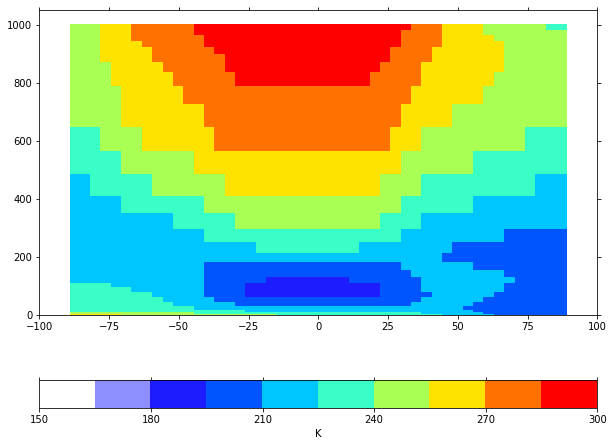
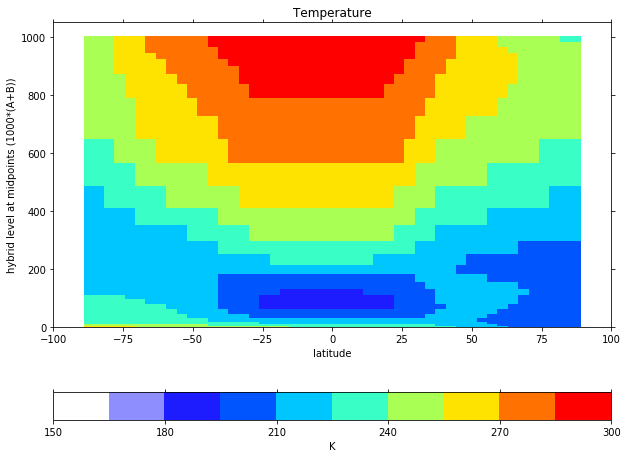
added xlabel and ylabel for vertical cross section plots

diff --git a/_episodes/05-psyplot-simple_case.md b/_episodes/05-psyplot-simple_case.md
@@ -22,20 +22,19 @@ keypoints:
 
 
 *   [Introduction to Jupyterhub and JupyterLab](#introduction-to-jupyterhub-and-jupyterlab)
-		* [Login to the JupyterHub](#login-to-the-jupyterhub)
-		* [Start and stop your server](#start-and-stop-your-server)
-		* [JupyterLab](#jupyterlab)
+	* [Login to the JupyterHub](#login-to-the-jupyterhub)
+	* [Start and stop your server](#start-and-stop-your-server)
+	* [JupyterLab](#jupyterlab)
 *   [Copy your output files from Abel to the virtual machine](#copy-your-output-files-from-abel-to-the-virtual-machine)
 *   [Map visualization with psyplot](#map-visualization-with-psyplot)
 *   [Customize your maps](#customize-your-plots)
-		* [Set figure size](#set-figure-size)
-		* [Plot 4D-fields such as Temperature](#plot-4d-fields-such-as-temperature)
-		* [Change map projection](#change-map-projection)
+	* [Set figure size](#set-figure-size)
+	* [Plot 4D-fields such as Temperature](#plot-4d-fields-such-as-temperature)
+	* [Change map projection](#change-map-projection)
 *   [Georeferenced Latitude-Vertical plot](#georeferenced-latitude-vertical-plot)	
-		* [2D plot for one longitude point](#2d-plot-for-one-longitude-point)
-		* [2D plot over averaged longitudes](#2d-plot-over-averaged-longitudes)
+	* [2D plot for one longitude point](#2d-plot-for-one-longitude-point)
+	* [2D plot over averaged longitudes](#2d-plot-over-averaged-longitudes)
 *   [CESM vertical coordinate system](#cesm-vertical-coordinate-system)
-*   [Interpolate to pressure levels](#interpolate-to-pressure-levels)
 
 # Introduction to Jupyterhub and JupyterLab
 
@@ -183,6 +182,8 @@ We select *lon=0* and to use psyplot, we create a new *xarray* using latitudes a
 ~~~
 import xarray as xr
 
+mpl.rcParams['figure.figsize'] = [10., 8.]
+
 ds = psy.open_dataset(filename)
 
 # Create a new dataset over latitudes and levels
@@ -193,7 +194,9 @@ T_cross_section = xr.Dataset(
     attrs = ds['T'].attrs)
 
 # Plot
-psy.plot.plot2d(T_cross_section, name='T', clabel='{desc}')
+psy.plot.plot2d(T_cross_section, name='T', clabel='{desc}', 
+				xlabel=ds.lat.attrs['long_name'], 
+				ylabel=ds.lev.attrs['long_name'])
 ~~~
 {: .language-python}
 
@@ -217,7 +220,8 @@ Tmean=xr.Dataset(
 print(Tmean)
 
 # Plot the cross section
-psy.plot.plot2d(Tmean, name='T', clabel=Tmean.attrs['units'])
+psy.plot.plot2d(Tmean, name='T', title=Tmean.attrs['long_name'], clabel=Tmean.attrs['units'],
+               xlabel=ds.lat.attrs['long_name'], ylabel=ds.lev.attrs['long_name'])
 ~~~
 {: .language-python}
 
@@ -228,7 +232,8 @@ psy.plot.plot2d(Tmean, name='T', clabel=Tmean.attrs['units'])
 
 ~~~
 # To revert vertical axis
-psy.plot.plot2d(Tmean, name='T', clabel='{desc}')
+psy.plot.plot2d(Tmean, name='T', title=Tmean.attrs['long_name'], clabel=Tmean.attrs['units'],
+               xlabel=ds.lat.attrs['long_name'], ylabel=ds.lev.attrs['long_name'])
 
 # Invert vertical axis
 import matplotlib.pyplot as plt
@@ -244,7 +249,9 @@ usually use the log to plot it as it is more intuitive to analyze. For this, go 
 change the units of the vertical axis from "scalar" to "Log10". 
 
 ~~~
-psy.plot.plot2d(Tmean, name='T', clabel='{desc}')
+psy.plot.plot2d(Tmean, name='T', title=Tmean.attrs['long_name'], clabel=Tmean.attrs['units'],
+               xlabel=ds.lat.attrs['long_name'], ylabel=ds.lev.attrs['long_name'])
+
 # Invert vertical axis
 plt.ylim(plt.ylim()[::-1])
 # 'symlog' scaling, however, handles negative values nicely
@@ -258,7 +265,9 @@ plt.yscale('symlog')
 We can also adjust the top of the figure:
 
 ~~~
-psy.plot.plot2d(Tmean, name='T', plot='contourf', clabel='{desc}')
+psy.plot.plot2d(Tmean, name='T', title=Tmean.attrs['long_name'],plot='contourf', clabel=Tmean.attrs['units'],
+               xlabel=ds.lat.attrs['long_name'], ylabel=ds.lev.attrs['long_name'])
+
 # Invert vertical axis
 plt.ylim(plt.ylim()[::-1])
 # 'symlog' scaling, however, handles negative values nicely
